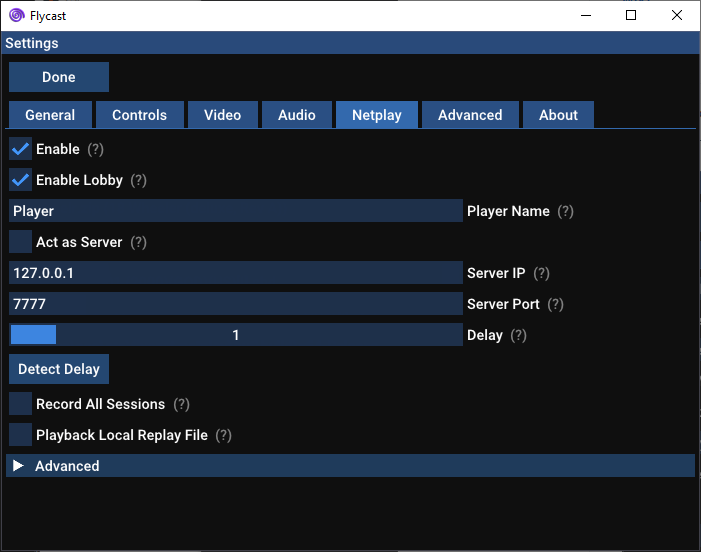
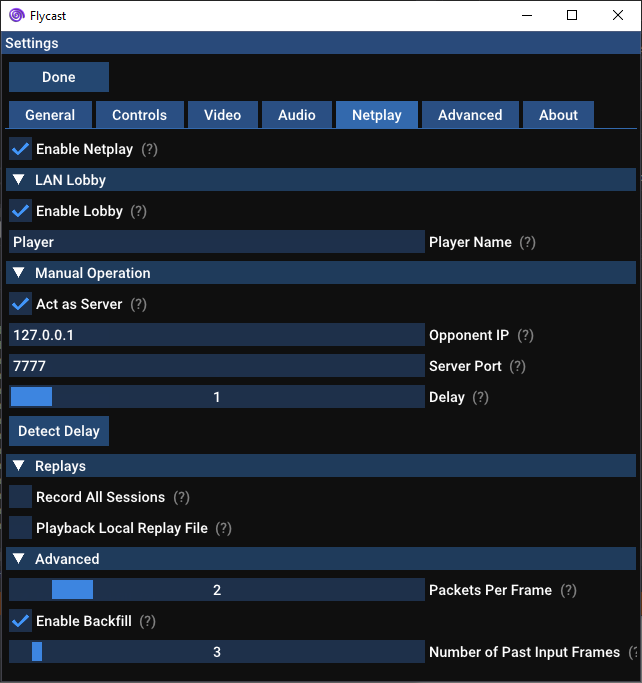
split netplay settings into sections

diff --git a/core/rend/gui.cpp b/core/rend/gui.cpp
@@ -1474,95 +1474,108 @@ static void gui_display_settings()
 		if (ImGui::BeginTabItem("Netplay"))
 		{
 			ImGui::PushStyleVar(ImGuiStyleVar_FramePadding, normal_padding);
-			ImGui::Checkbox("Enable##MapleNet", &settings.maplenet.Enable);
+			ImGui::Checkbox("Enable Netplay", &settings.maplenet.Enable);
 			ImGui::SameLine();
 			ShowHelpMarker("Enable peer-to-peer netplay for games with a local multiplayer mode");
 			if (settings.maplenet.Enable)
 			{
 				if (!settings.maplenet.PlayMatch)
 				{
-					ImGui::Checkbox("Enable Lobby", &settings.maplenet.EnableLobby);
-					ImGui::SameLine();
-					ShowHelpMarker("Enable discovery and matchmaking on LAN");
-
-					if (settings.maplenet.EnableLobby)
+					if (ImGui::CollapsingHeader("LAN Lobby", ImGuiTreeNodeFlags_DefaultOpen))
 					{
-						char PlayerName[256] = { 0 };
-						strcpy(PlayerName, settings.maplenet.PlayerName.c_str());
-						ImGui::InputText("Player Name", PlayerName, sizeof(PlayerName), ImGuiInputTextFlags_CharsNoBlank, nullptr, nullptr);
+
+						ImGui::Checkbox("Enable Lobby", &settings.maplenet.EnableLobby);
 						ImGui::SameLine();
-						ShowHelpMarker("Name visible to other players");
-						settings.maplenet.PlayerName = std::string(PlayerName, strlen(PlayerName));
+						ShowHelpMarker("Enable discovery and matchmaking on LAN");
+
+						if (settings.maplenet.EnableLobby)
+						{
+							char PlayerName[256] = { 0 };
+							strcpy(PlayerName, settings.maplenet.PlayerName.c_str());
+							ImGui::InputText("Player Name", PlayerName, sizeof(PlayerName), ImGuiInputTextFlags_CharsNoBlank, nullptr, nullptr);
+							ImGui::SameLine();
+							ShowHelpMarker("Name visible to other players");
+							settings.maplenet.PlayerName = std::string(PlayerName, strlen(PlayerName));
+						}
 					}
 
-					ImGui::Checkbox("Act as Server", &settings.maplenet.ActAsServer);
-					ImGui::SameLine();
-					ShowHelpMarker("Host netplay game");
-
-					char ServerIP[256];
-					std::string IPLabel;
-					std::string IPDescription;
-					std::string PortDescription;
-					if (settings.maplenet.ActAsServer)
+					if (ImGui::CollapsingHeader("Manual Operation", ImGuiTreeNodeFlags_DefaultOpen))
 					{
-						IPLabel = "Opponent IP##MapleNet";
-						IPDescription = "Opponent IP to detect delay against (optional)";
-						PortDescription = "The server port to listen on";
+						ImGui::Checkbox("Act as Server", &settings.maplenet.ActAsServer);
+						ImGui::SameLine();
+						ShowHelpMarker("Host netplay game");
+
+						char ServerIP[256];
+						std::string IPLabel;
+						std::string IPDescription;
+						std::string PortDescription;
+						if (settings.maplenet.ActAsServer)
+						{
+							IPLabel = "Opponent IP##MapleNet";
+							IPDescription = "Opponent IP to detect delay against (optional)";
+							PortDescription = "The server port to listen on";
+						}
+						else
+						{
+							IPLabel = "Server IP##MapleNet";
+							IPDescription = "The server IP to connect to";
+							PortDescription = "The server port to connect to";
+						}
+
+						strcpy(ServerIP, settings.maplenet.ServerIP.c_str());
+						ImGui::InputText(IPLabel.c_str(), ServerIP, sizeof(ServerIP), ImGuiInputTextFlags_CharsNoBlank, nullptr, nullptr);
+						ImGui::SameLine();
+						ShowHelpMarker(IPDescription.c_str());
+						settings.maplenet.ServerIP = ServerIP;
+
+						char ServerPort[256];
+						strcpy(ServerPort, settings.maplenet.ServerPort.c_str());
+						ImGui::InputText("Server Port", ServerPort, sizeof(ServerPort), ImGuiInputTextFlags_CharsNoBlank, nullptr, nullptr);
+						ImGui::SameLine();
+						ShowHelpMarker(PortDescription.c_str());
+						settings.maplenet.ServerPort = ServerPort;
+
+						ImGui::SliderInt("Delay", (int*)&settings.maplenet.Delay, 1, 10);
+						ImGui::SameLine();
+						ShowHelpMarker("Set input delay");
+
+						if (ImGui::Button("Detect Delay", ImVec2(100 * scaling, 30 * scaling)))
+						{
+							int avg_ping_ms = 0;
+							char OpponentIP[256];
+							avg_ping_ms = maplenet.GetAveragePing(ServerIP);
+
+							int delay = (int)ceil((avg_ping_ms * 1.0f) / 32.0f);
+							settings.maplenet.Delay = delay > 1 ? delay : 1;
+						}
 					}
-					else
-					{
-						IPLabel = "Server IP##MapleNet";
-						IPDescription = "The server IP to connect to";
-						PortDescription = "The server port to connect to";
-					}
-
-					strcpy(ServerIP, settings.maplenet.ServerIP.c_str());
-					ImGui::InputText(IPLabel.c_str(), ServerIP, sizeof(ServerIP), ImGuiInputTextFlags_CharsNoBlank, nullptr, nullptr);
-					ImGui::SameLine();
-					ShowHelpMarker(IPDescription.c_str());
-					settings.maplenet.ServerIP = ServerIP;
-
-					char ServerPort[256];
-					strcpy(ServerPort, settings.maplenet.ServerPort.c_str());
-					ImGui::InputText("Server Port", ServerPort, sizeof(ServerPort), ImGuiInputTextFlags_CharsNoBlank, nullptr, nullptr);
-					ImGui::SameLine();
-					ShowHelpMarker(PortDescription.c_str());
-					settings.maplenet.ServerPort = ServerPort;
-
-					ImGui::SliderInt("Delay", (int*)&settings.maplenet.Delay, 1, 10);
-					ImGui::SameLine();
-					ShowHelpMarker("Set input delay");
-
-					if (ImGui::Button("Detect Delay", ImVec2(100 * scaling, 30 * scaling)))
-					{
-						int avg_ping_ms = 0;
-						char OpponentIP[256];
-						avg_ping_ms = maplenet.GetAveragePing(ServerIP);
-
-						int delay = (int)ceil((avg_ping_ms * 1.0f) / 32.0f);
-						settings.maplenet.Delay = delay > 1 ? delay : 1;
-					}
-
-					ImGui::Checkbox("Record All Sessions", &settings.maplenet.RecordMatches);
-					ImGui::SameLine();
-					ShowHelpMarker("Record all netplay sessions to a local file");
 				}
 
-				if (!settings.maplenet.RecordMatches)
+				if (ImGui::CollapsingHeader("Replays", ImGuiTreeNodeFlags_DefaultOpen))
 				{
-					ImGui::Checkbox("Playback Local Replay File", &settings.maplenet.PlayMatch);
-					ImGui::SameLine();
-					ShowHelpMarker("Plays local replay file");
-				}
+					if (!settings.maplenet.PlayMatch)
+					{
+						ImGui::Checkbox("Record All Sessions", &settings.maplenet.RecordMatches);
+						ImGui::SameLine();
+						ShowHelpMarker("Record all netplay sessions to a local file");
+					}
 
-				if (settings.maplenet.PlayMatch)
-				{
-					char ReplayFilename[256] = { 0 };
-					strcpy(ReplayFilename, settings.maplenet.ReplayFilename.c_str());
-					ImGui::InputText("Replay Filename", ReplayFilename, sizeof(ReplayFilename), ImGuiInputTextFlags_CharsNoBlank, nullptr, nullptr);
-					ImGui::SameLine();
-					ShowHelpMarker("The local replay file to playback. Defaults to last recorded session");
-					settings.maplenet.ReplayFilename = std::string(ReplayFilename, strlen(ReplayFilename));
+					if (!settings.maplenet.RecordMatches)
+					{
+						ImGui::Checkbox("Playback Local Replay File", &settings.maplenet.PlayMatch);
+						ImGui::SameLine();
+						ShowHelpMarker("Plays local replay file");
+					}
+
+					if (settings.maplenet.PlayMatch)
+					{
+						char ReplayFilename[256] = { 0 };
+						strcpy(ReplayFilename, settings.maplenet.ReplayFilename.c_str());
+						ImGui::InputText("Replay Filename", ReplayFilename, sizeof(ReplayFilename), ImGuiInputTextFlags_CharsNoBlank, nullptr, nullptr);
+						ImGui::SameLine();
+						ShowHelpMarker("The local replay file to playback. Defaults to last recorded session");
+						settings.maplenet.ReplayFilename = std::string(ReplayFilename, strlen(ReplayFilename));
+					}
 				}
 
 				if (ImGui::CollapsingHeader("Advanced", ImGuiTreeNodeFlags_None))

diff --git a/README.md b/README.md
@@ -58,7 +58,7 @@ Make sure both you and your opponent have the same delay and game ROM to begin y
 ### Launch Game
 On the Flycast main screen, you may now select your game of choice. You may also filter your list of games by typing in the text box on the top of the screen.
 
-If you are hosting, you must start the game first, then have your opponent join afterward. If you are joining someone else’s game, you must wait for them to start first. Be sure that you and your opponent have the same files before starting your session. These would include your ROM files, as well at your `save.net` files found in your `data/` subdirectory.
+If you are hosting, you must start the game first, then have your opponent join afterward. If you are joining someone else's game, you must wait for them to start first. Be sure that you and your opponent have the same files before starting your session. These would include your ROM files, as well at your `eeprom.net`/`nvmem.net` files found in your `data/` subdirectory.
 
 # Replays
 To record your netplay sessions, just check the box that says "Record All Sessions". This will create a new replay file for each netplay session you run and will be saved in the `replays/` subdirectory.
